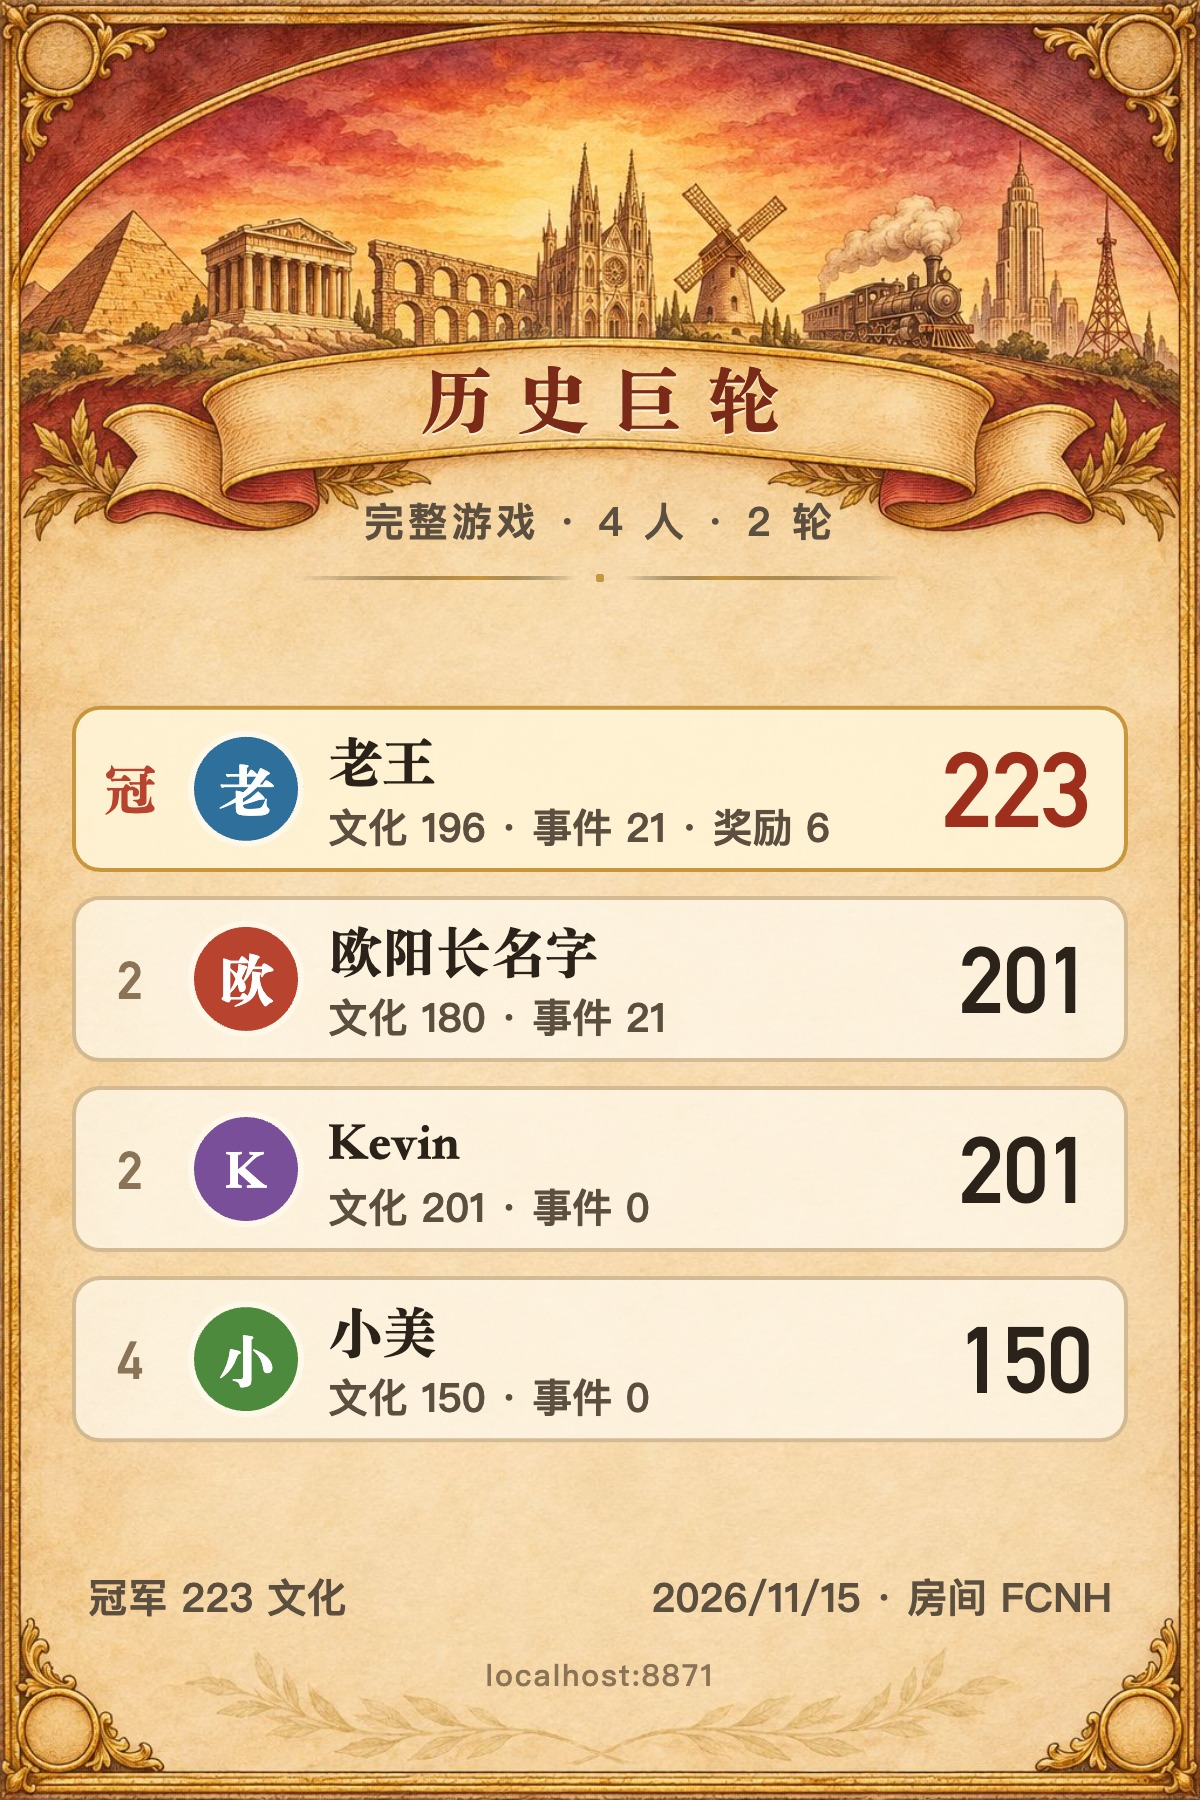
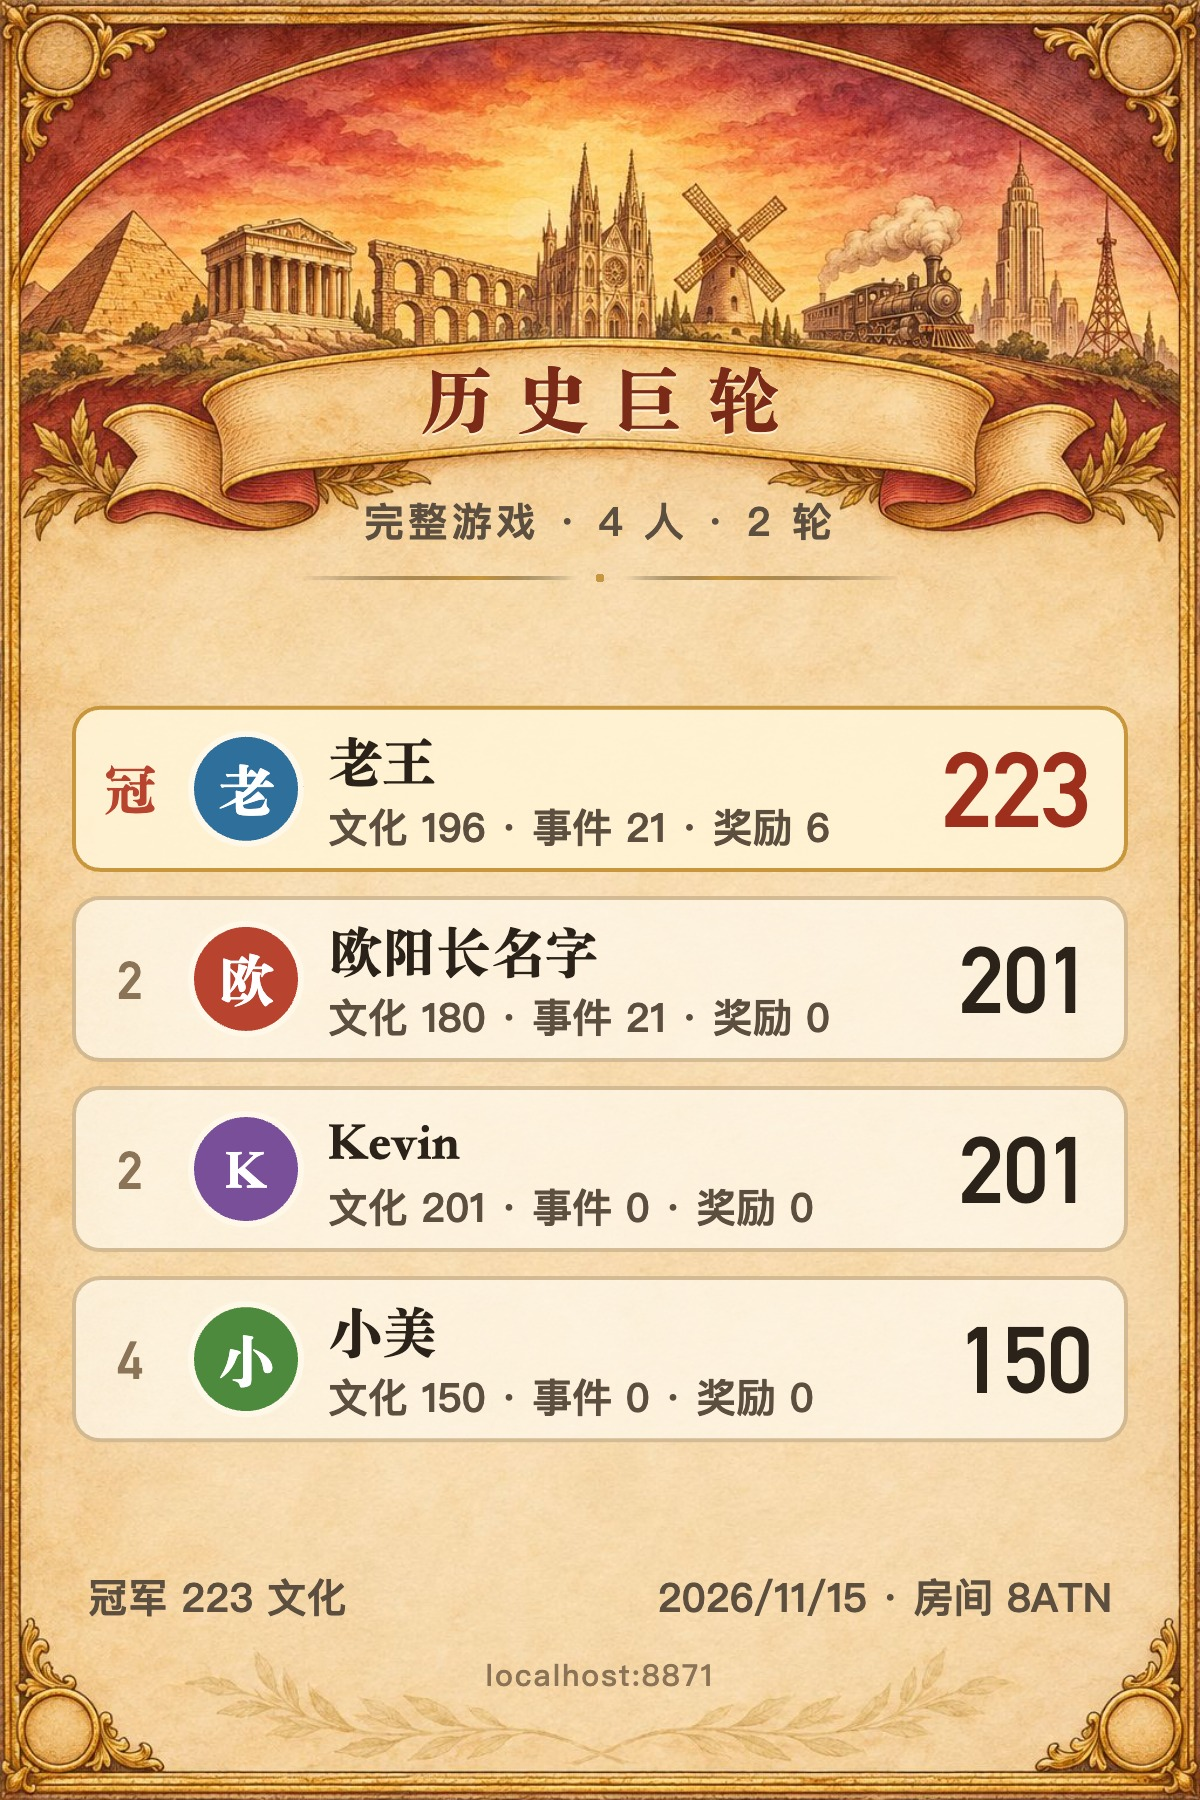
打印海报：每行显示同样几项分项（按全桌决定，最多 3 项），分项过长时截断不压总分；测试加 3 人带奖励的情况

diff --git a/public/app.js b/public/app.js
@@ -450,7 +450,13 @@ function showImage(url, hint, file) {
 const loadImg = src => new Promise((ok, fail) => { const i = new Image(); i.onload = () => ok(i); i.onerror = () => fail(new Error('海报底图加载失败')); i.src = src; });
 function posterHtml(R) {
   const n = R.rows.length, first = S.mode === 'first';
-  const sub = r => first ? [['游戏中', r.culture], ['成就', r.ach]] : [['文化', r.culture], ['事件', r.events], ...(r.ach ? [['奇迹', r.ach]] : []), ...(r.bonus ? [['奖励', r.bonus]] : [])];
+  // The same items on every row (docs/打印海报说明.md): wonders and bonuses only when someone scored them; at most 3 fit,
+  // so a short game with bonuses shows events and bonuses together.
+  const any = k => R.rows.some(r => r[k]);
+  const cols = first ? [['游戏中', r => r.culture], ['成就', r => r.ach]]
+    : [['文化', r => r.culture], ...(any('ach') && any('bonus') ? [['事件奖励', r => r.events + r.bonus], ['奇迹', r => r.ach]]
+      : [['事件', r => r.events], ...(any('ach') ? [['奇迹', r => r.ach]] : []), ...(any('bonus') ? [['奖励', r => r.bonus]] : [])])];
+  const sub = r => cols.map(([k, f]) => [k, f(r)]);
   const top = R.rows.filter(r => r.place === 1);
   const row = r => `<div class="pr${r.place === 1 ? ' win' : ''}">
       <span class="pp">${r.place === 1 ? '冠' : r.place}</span>

diff --git a/public/style.css b/public/style.css
@@ -598,7 +598,7 @@ img.gt{height:54px;width:auto;max-width:100%;object-fit:contain}
 #poster .pa{flex:none;width:58px;height:58px;border-radius:50%;background:var(--c);border:3px solid #fff8e8;box-shadow:0 2px 4px rgba(0,0,0,.3);display:flex;align-items:center;justify-content:center;color:#fff;font:900 28px/1 var(--serif)}
 #poster .pw{flex:1;min-width:0;display:flex;flex-direction:column;gap:6px}
 #poster .pw b{font:900 27px/1.15 var(--serif);white-space:nowrap;overflow:hidden;text-overflow:ellipsis}
-#poster .pw i{font:600 20px/1.1 var(--sans);font-style:normal;color:#5c4f40;white-space:nowrap}
+#poster .pw i{font:600 20px/1.1 var(--sans);font-style:normal;color:#5c4f40;white-space:nowrap;overflow:hidden;text-overflow:ellipsis}
 #poster .pt{flex:none;font:600 46px/1 var(--num);color:#2b2219}
 #poster .win .pt{color:#9e2f1c;font-size:52px}
 #poster .n2 .pr{padding:16px 18px 16px 12px}

diff --git a/README.md b/README.md
@@ -53,7 +53,7 @@
 
 ### 打印海报（3 寸相纸）
 
-结算页「打印」生成一张 1200×1800 的竖版海报（2×3 英寸，600 dpi），给口袋照片打印机用：上方是时代变迁的插画和“历史巨轮”缎带标题，2–3 人时有“文明之巅”冠军徽章，下面按名次列出每位玩家的头像、名字、总分和分项（第一局：游戏中文化、成就；完整游戏：文化、事件、奇迹、奖励），底部是日期、房间号和站点地址。字号和留边按总目录 `docs/打印海报说明.md`：正文不小于 40 px、名字不小于 52 px、总分不小于 90 px，重要内容离四边至少 60 px。
+结算页「打印」生成一张 1200×1800 的竖版海报（2×3 英寸，600 dpi），给口袋照片打印机用：上方是时代变迁的插画和“历史巨轮”缎带标题，2–3 人时有“文明之巅”冠军徽章，下面按名次列出每位玩家的头像、名字、总分和分项（每行同样几项，按全桌有没有得分决定，最多 3 项：第一局是游戏中文化、成就；完整游戏是文化、事件，有人得了才加奇迹、奖励），底部是日期、房间号和站点地址。字号和留边按总目录 `docs/打印海报说明.md`：正文不小于 40 px、名字不小于 52 px、总分不小于 90 px，重要内容离四边至少 60 px。
 
 底图 `public/img/poster-bg.jpg` 是用 Codex 生成的原创插画（金色边框、金字塔到摩天楼的时代剪影、空白缎带，没有文字），点「打印」时才加载。海报在隐藏的 600×900 节点里排版，用 html2canvas 按 2 倍截图，生成后在图片查看层里长按保存，再用打印机 App 选 3 寸相纸打印。
 
